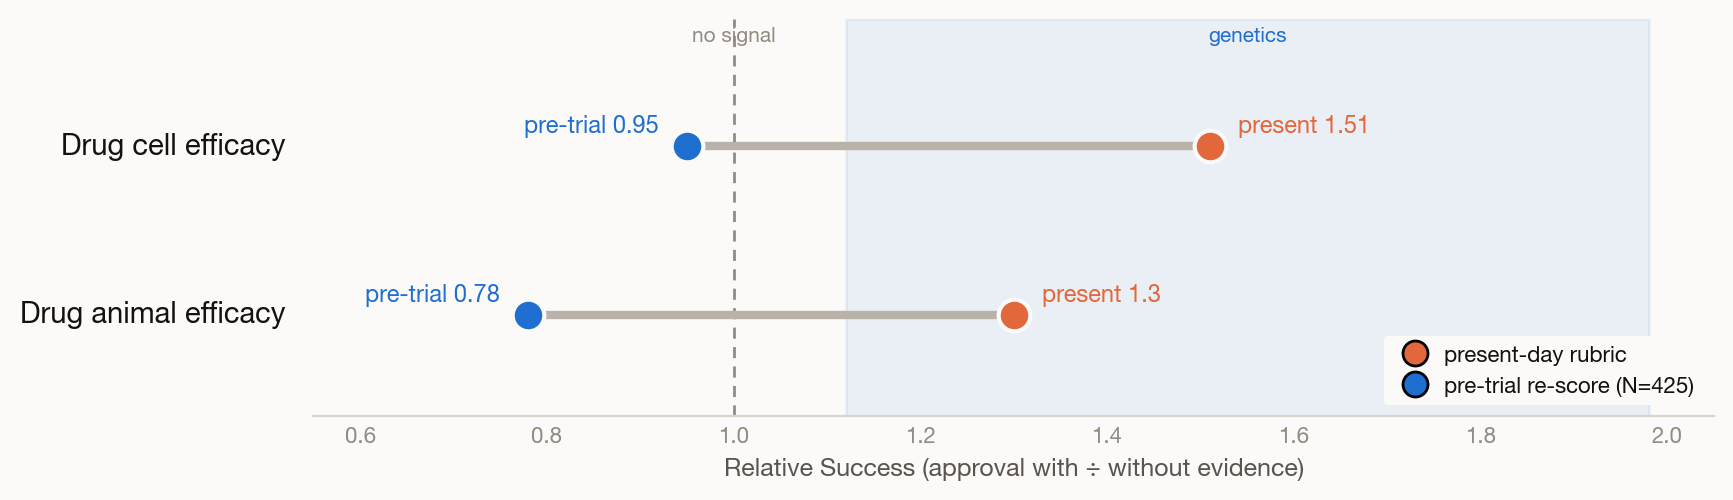
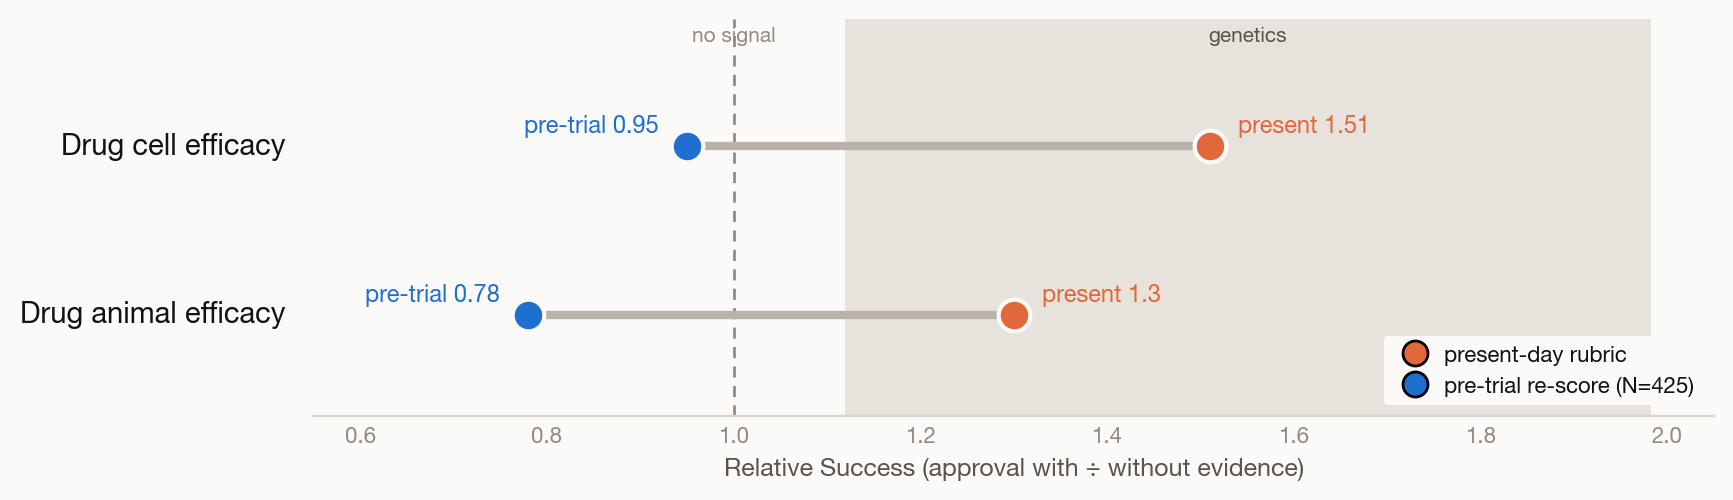
Figures: recolor genetics band blue -> neutral gray
The blue genetics band read poorly (and made the legend look like it straddled a
two-tone background). Swapped the band fill to a subtle neutral gray and its label to
secondary ink; data dots stay blue (pre-trial) / orange (present). Applies to all three
nuance figures via the shared _genetics_band helper.

diff --git a/analyses/plot_nuance_dateclean.py b/analyses/plot_nuance_dateclean.py
@@ -30,6 +30,7 @@ DATA = os.path.join(HERE, "..", "data")
 INK, SEC, MUTED = "#14110f", "#5b544e", "#938b82"
 SURFACE, RULE = "#fbfaf8", "#d8d3cb"
 BLUE, ORANGE, GREEN, GREY = "#1f6fd0", "#e2673a", "#2e7d47", "#b9b2a8"
+GENBAND = "#e7e2db"   # neutral benchmark band (no blue)
 GEN_LO, GEN_HI = 1.12, 1.98   # genetics dims RS spread (from v_relative_success_clean:
                               # GWAS 1.12, OT-genetic 1.14, Mendelian 1.49, ClinGen 1.74, OT-somatic 1.98)
 
@@ -49,7 +50,7 @@ def _rc():
 
 
 def _genetics_band(ax, y0, y1):
-    ax.axvspan(GEN_LO, GEN_HI, color=BLUE, alpha=0.08, zorder=0)
+    ax.axvspan(GEN_LO, GEN_HI, color=GENBAND, zorder=0)
     ax.axvline(1.0, color=MUTED, lw=1, ls=(0, (4, 3)), zorder=1)
 
 
@@ -76,7 +77,7 @@ def plot_collapse(clean=False):
                 fontweight="bold", color=INK, transform=ax.get_yaxis_transform())
     _genetics_band(ax, -0.5, 1.5)
     ax.text(1.0, 1.62, "no signal", fontsize=7.5, color=MUTED, ha="center")
-    ax.text((GEN_LO+GEN_HI)/2, 1.62, "genetics", fontsize=7.5, color=BLUE, ha="center", fontweight="bold")
+    ax.text((GEN_LO+GEN_HI)/2, 1.62, "genetics", fontsize=7.5, color=SEC, ha="center", fontweight="bold")
     ax.set_xlim(0.9, 2.05); ax.set_ylim(-0.6, 1.75)
     ax.set_yticks([])
     for s in ("top", "right", "left"): ax.spines[s].set_visible(False)
@@ -125,7 +126,7 @@ def plot_drug_collapse(clean=False):
                 color=INK, transform=ax.get_yaxis_transform())
     _genetics_band(ax, -0.5, 1.5)
     ax.text(1.0, 1.62, "no signal", fontsize=7.5, color=MUTED, ha="center")
-    ax.text((GEN_LO + GEN_HI) / 2, 1.62, "genetics", fontsize=7.5, color=BLUE, ha="center", fontweight="bold")
+    ax.text((GEN_LO + GEN_HI) / 2, 1.62, "genetics", fontsize=7.5, color=SEC, ha="center", fontweight="bold")
     ax.set_xlim(0.55, 2.05); ax.set_ylim(-0.6, 1.75)
     ax.set_yticks([])
     for s in ("top", "right", "left"): ax.spines[s].set_visible(False)
@@ -181,7 +182,7 @@ def plot_overview(clean=False):
                 transform=ax.get_yaxis_transform())
     _genetics_band(ax, min(ys)-1, max(ys)+1)
     ax.text(1.0, max(ys)+0.75, "no signal", fontsize=7.5, color=MUTED, ha="center")
-    ax.text((GEN_LO+GEN_HI)/2, max(ys)+0.75, "genetics band", fontsize=7.5, color=BLUE, ha="center", fontweight="bold")
+    ax.text((GEN_LO+GEN_HI)/2, max(ys)+0.75, "genetics band", fontsize=7.5, color=SEC, ha="center", fontweight="bold")
     ax.set_xlim(0, 3.25); ax.set_ylim(min(ys)-0.6, max(ys)+1.1)
     ax.set_yticks([])
     for s in ("top","right","left"): ax.spines[s].set_visible(False)
